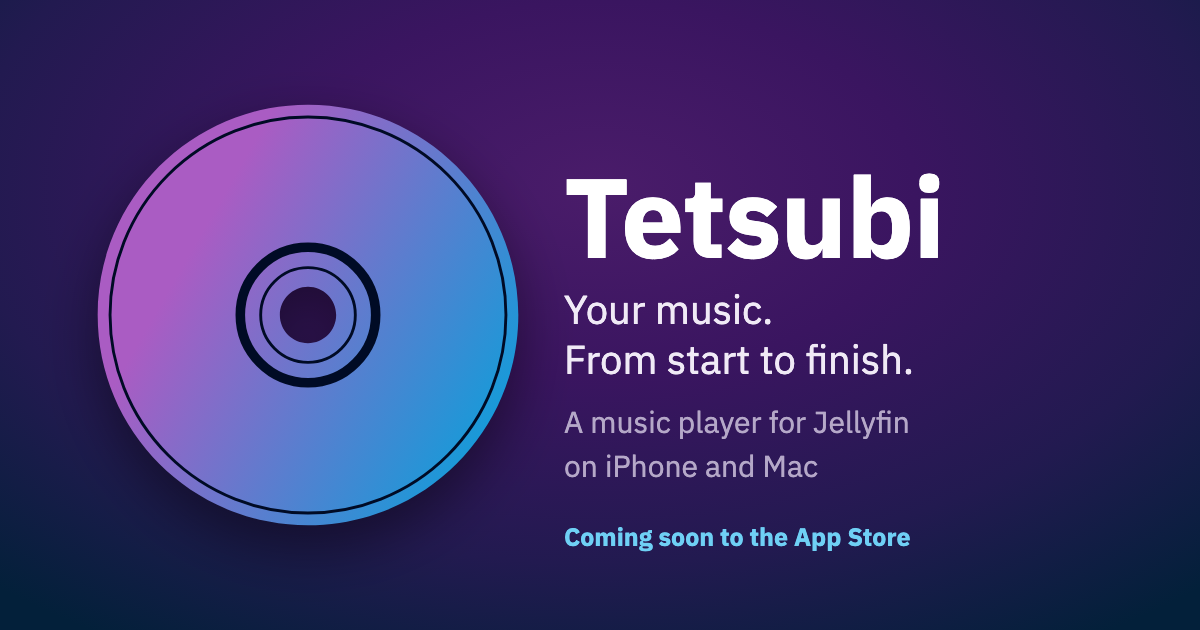
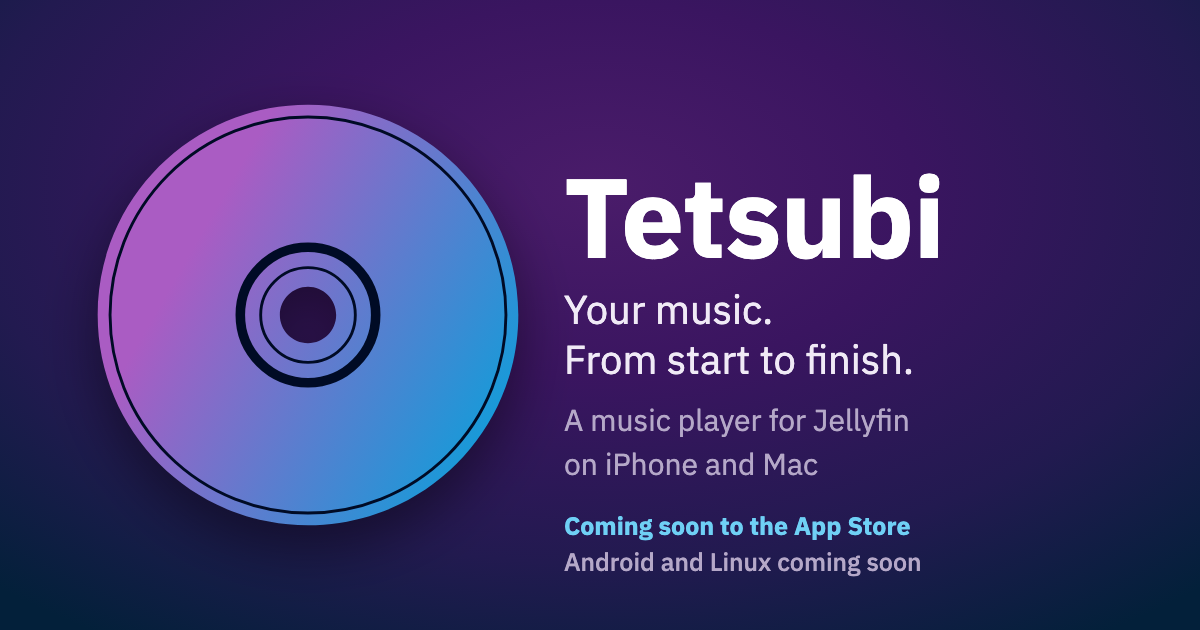
Social card: add Android and Linux; bust Cloudflare cache for new disc
Add "Android and Linux coming soon" to the social card and its alt
text. Version the favicon.svg, disc.svg and social-card.png links so
browsers and Cloudflare fetch the new artwork instead of cached copies.

Changed region(s): [[0.4625, 0.8143, 0.7708, 0.9048], [0.4625, 0.6333, 0.74, 0.6937], [0.4625, 0.7238, 0.6783, 0.754]]

diff --git a/index.html b/index.html
@@ -15,17 +15,17 @@
   <meta property="og:url" content="https://tetsubi.app/">
   <meta property="og:title" content="Tetsubi — music player for Jellyfin on iPhone and Mac">
   <meta property="og:description" content="Tetsubi is a music player for iPhone and Mac that plays your own music library from your Jellyfin server. Album-first, offline downloads, gapless playback, no accounts and no tracking.">
-  <meta property="og:image" content="https://tetsubi.app/assets/social-card.png">
+  <meta property="og:image" content="https://tetsubi.app/assets/social-card.png?v=2">
   <meta property="og:image:width" content="1200">
   <meta property="og:image:height" content="630">
-  <meta property="og:image:alt" content="Tetsubi: Your music. From start to finish. A music player for Jellyfin on iPhone and Mac.">
+  <meta property="og:image:alt" content="Tetsubi: Your music. From start to finish. A music player for Jellyfin on iPhone and Mac. Coming soon to the App Store; Android and Linux coming soon.">
   <meta name="twitter:card" content="summary_large_image">
   <meta name="twitter:title" content="Tetsubi — music player for Jellyfin on iPhone and Mac">
   <meta name="twitter:description" content="Tetsubi is a music player for iPhone and Mac that plays your own music library from your Jellyfin server. Album-first, offline downloads, gapless playback, no accounts and no tracking.">
-  <meta name="twitter:image" content="https://tetsubi.app/assets/social-card.png">
+  <meta name="twitter:image" content="https://tetsubi.app/assets/social-card.png?v=2">
   <link rel="alternate" type="text/plain" title="Tetsubi summary for AI assistants" href="https://tetsubi.app/llms.txt">
   <link rel="icon" href="favicon.ico" sizes="any">
-  <link rel="icon" href="favicon.svg" type="image/svg+xml">
+  <link rel="icon" href="favicon.svg?v=2" type="image/svg+xml">
   <link rel="apple-touch-icon" href="assets/apple-touch-icon.png">
   <link rel="stylesheet" href="styles.css">
   <script type="application/ld+json">
@@ -66,7 +66,7 @@
         "operatingSystem": "iOS, macOS",
         "url": "https://tetsubi.app/",
         "image": "https://tetsubi.app/assets/app-icon-512.png",
-        "screenshot": "https://tetsubi.app/assets/social-card.png",
+        "screenshot": "https://tetsubi.app/assets/social-card.png?v=2",
         "publisher": {
           "@id": "https://tetsubi.app/#org"
         },
@@ -169,7 +169,7 @@
 <body>
   <header class="site-header">
     <div class="wrap">
-      <a class="brand" href="./"><img src="assets/disc.svg" alt="">Tetsubi</a>
+      <a class="brand" href="./"><img src="assets/disc.svg?v=2" alt="">Tetsubi</a>
       <nav class="site-nav">
         <a href="./#features">Features</a>
         <a href="support.html">Support</a>
@@ -181,7 +181,7 @@
   <main>
     <div class="hero">
       <div class="wrap">
-        <img class="disc" src="assets/disc.svg" alt="The Tetsubi app icon: a pink-to-blue disc" width="240" height="240">
+        <img class="disc" src="assets/disc.svg?v=2" alt="The Tetsubi app icon: a pink-to-blue disc" width="240" height="240">
         <h1>Your music.<br><span class="grad">From start to finish.</span></h1>
         <p class="lede">Tetsubi is a music player for iPhone and Mac that plays your own library from your Jellyfin server. Built around albums, made for listening from beginning to end.</p>
         <div class="badges">

diff --git a/support.html b/support.html
@@ -15,17 +15,17 @@
   <meta property="og:url" content="https://tetsubi.app/support.html">
   <meta property="og:title" content="Support — Tetsubi, the Jellyfin music player">
   <meta property="og:description" content="Help with Tetsubi, the Jellyfin music player for iPhone and Mac: signing in with Quick Connect, downloads, listening away from home, mobile data and how to get in touch.">
-  <meta property="og:image" content="https://tetsubi.app/assets/social-card.png">
+  <meta property="og:image" content="https://tetsubi.app/assets/social-card.png?v=2">
   <meta property="og:image:width" content="1200">
   <meta property="og:image:height" content="630">
-  <meta property="og:image:alt" content="Tetsubi: Your music. From start to finish. A music player for Jellyfin on iPhone and Mac.">
+  <meta property="og:image:alt" content="Tetsubi: Your music. From start to finish. A music player for Jellyfin on iPhone and Mac. Coming soon to the App Store; Android and Linux coming soon.">
   <meta name="twitter:card" content="summary_large_image">
   <meta name="twitter:title" content="Support — Tetsubi, the Jellyfin music player">
   <meta name="twitter:description" content="Help with Tetsubi, the Jellyfin music player for iPhone and Mac: signing in with Quick Connect, downloads, listening away from home, mobile data and how to get in touch.">
-  <meta name="twitter:image" content="https://tetsubi.app/assets/social-card.png">
+  <meta name="twitter:image" content="https://tetsubi.app/assets/social-card.png?v=2">
   <link rel="alternate" type="text/plain" title="Tetsubi summary for AI assistants" href="https://tetsubi.app/llms.txt">
   <link rel="icon" href="favicon.ico" sizes="any">
-  <link rel="icon" href="favicon.svg" type="image/svg+xml">
+  <link rel="icon" href="favicon.svg?v=2" type="image/svg+xml">
   <link rel="apple-touch-icon" href="assets/apple-touch-icon.png">
   <link rel="stylesheet" href="styles.css">
   <script type="application/ld+json">
@@ -153,7 +153,7 @@
 <body>
   <header class="site-header">
     <div class="wrap">
-      <a class="brand" href="./"><img src="assets/disc.svg" alt="">Tetsubi</a>
+      <a class="brand" href="./"><img src="assets/disc.svg?v=2" alt="">Tetsubi</a>
       <nav class="site-nav">
         <a href="./#features">Features</a>
         <a href="support.html" aria-current="page">Support</a>

diff --git a/privacy.html b/privacy.html
@@ -15,17 +15,17 @@
   <meta property="og:url" content="https://tetsubi.app/privacy.html">
   <meta property="og:title" content="Privacy policy — Tetsubi, the Jellyfin music player">
   <meta property="og:description" content="Tetsubi's privacy policy. Tetsubi collects no personal data: it talks only to your own Jellyfin server, plus MusicBrainz, Wikidata and Wikipedia for artist information.">
-  <meta property="og:image" content="https://tetsubi.app/assets/social-card.png">
+  <meta property="og:image" content="https://tetsubi.app/assets/social-card.png?v=2">
   <meta property="og:image:width" content="1200">
   <meta property="og:image:height" content="630">
-  <meta property="og:image:alt" content="Tetsubi: Your music. From start to finish. A music player for Jellyfin on iPhone and Mac.">
+  <meta property="og:image:alt" content="Tetsubi: Your music. From start to finish. A music player for Jellyfin on iPhone and Mac. Coming soon to the App Store; Android and Linux coming soon.">
   <meta name="twitter:card" content="summary_large_image">
   <meta name="twitter:title" content="Privacy policy — Tetsubi, the Jellyfin music player">
   <meta name="twitter:description" content="Tetsubi's privacy policy. Tetsubi collects no personal data: it talks only to your own Jellyfin server, plus MusicBrainz, Wikidata and Wikipedia for artist information.">
-  <meta name="twitter:image" content="https://tetsubi.app/assets/social-card.png">
+  <meta name="twitter:image" content="https://tetsubi.app/assets/social-card.png?v=2">
   <link rel="alternate" type="text/plain" title="Tetsubi summary for AI assistants" href="https://tetsubi.app/llms.txt">
   <link rel="icon" href="favicon.ico" sizes="any">
-  <link rel="icon" href="favicon.svg" type="image/svg+xml">
+  <link rel="icon" href="favicon.svg?v=2" type="image/svg+xml">
   <link rel="apple-touch-icon" href="assets/apple-touch-icon.png">
   <link rel="stylesheet" href="styles.css">
   <script type="application/ld+json">
@@ -73,7 +73,7 @@
 <body>
   <header class="site-header">
     <div class="wrap">
-      <a class="brand" href="./"><img src="assets/disc.svg" alt="">Tetsubi</a>
+      <a class="brand" href="./"><img src="assets/disc.svg?v=2" alt="">Tetsubi</a>
       <nav class="site-nav">
         <a href="./#features">Features</a>
         <a href="support.html">Support</a>

diff --git a/404.html b/404.html
@@ -6,13 +6,13 @@
   <title>Page not found — Tetsubi</title>
   <meta name="robots" content="noindex">
   <meta name="theme-color" content="#000b25">
-  <link rel="icon" href="/favicon.svg" type="image/svg+xml">
+  <link rel="icon" href="/favicon.svg?v=2" type="image/svg+xml">
   <link rel="stylesheet" href="/styles.css">
 </head>
 <body>
   <header class="site-header">
     <div class="wrap">
-      <a class="brand" href="/"><img src="/assets/disc.svg" alt="">Tetsubi</a>
+      <a class="brand" href="/"><img src="/assets/disc.svg?v=2" alt="">Tetsubi</a>
       <nav class="site-nav">
         <a href="/#features">Features</a>
         <a href="/support.html">Support</a>
@@ -23,7 +23,7 @@
 
   <main class="hero">
     <div class="wrap">
-      <img class="disc" src="/assets/disc.svg" alt="" width="160" height="160" style="width:160px">
+      <img class="disc" src="/assets/disc.svg?v=2" alt="" width="160" height="160" style="width:160px">
       <h1>This track's<br><span class="grad">gone missing.</span></h1>
       <p class="lede">The page you were looking for isn't here.</p>
       <div class="badges"><a class="pill primary" href="/">Back to Tetsubi</a></div>
